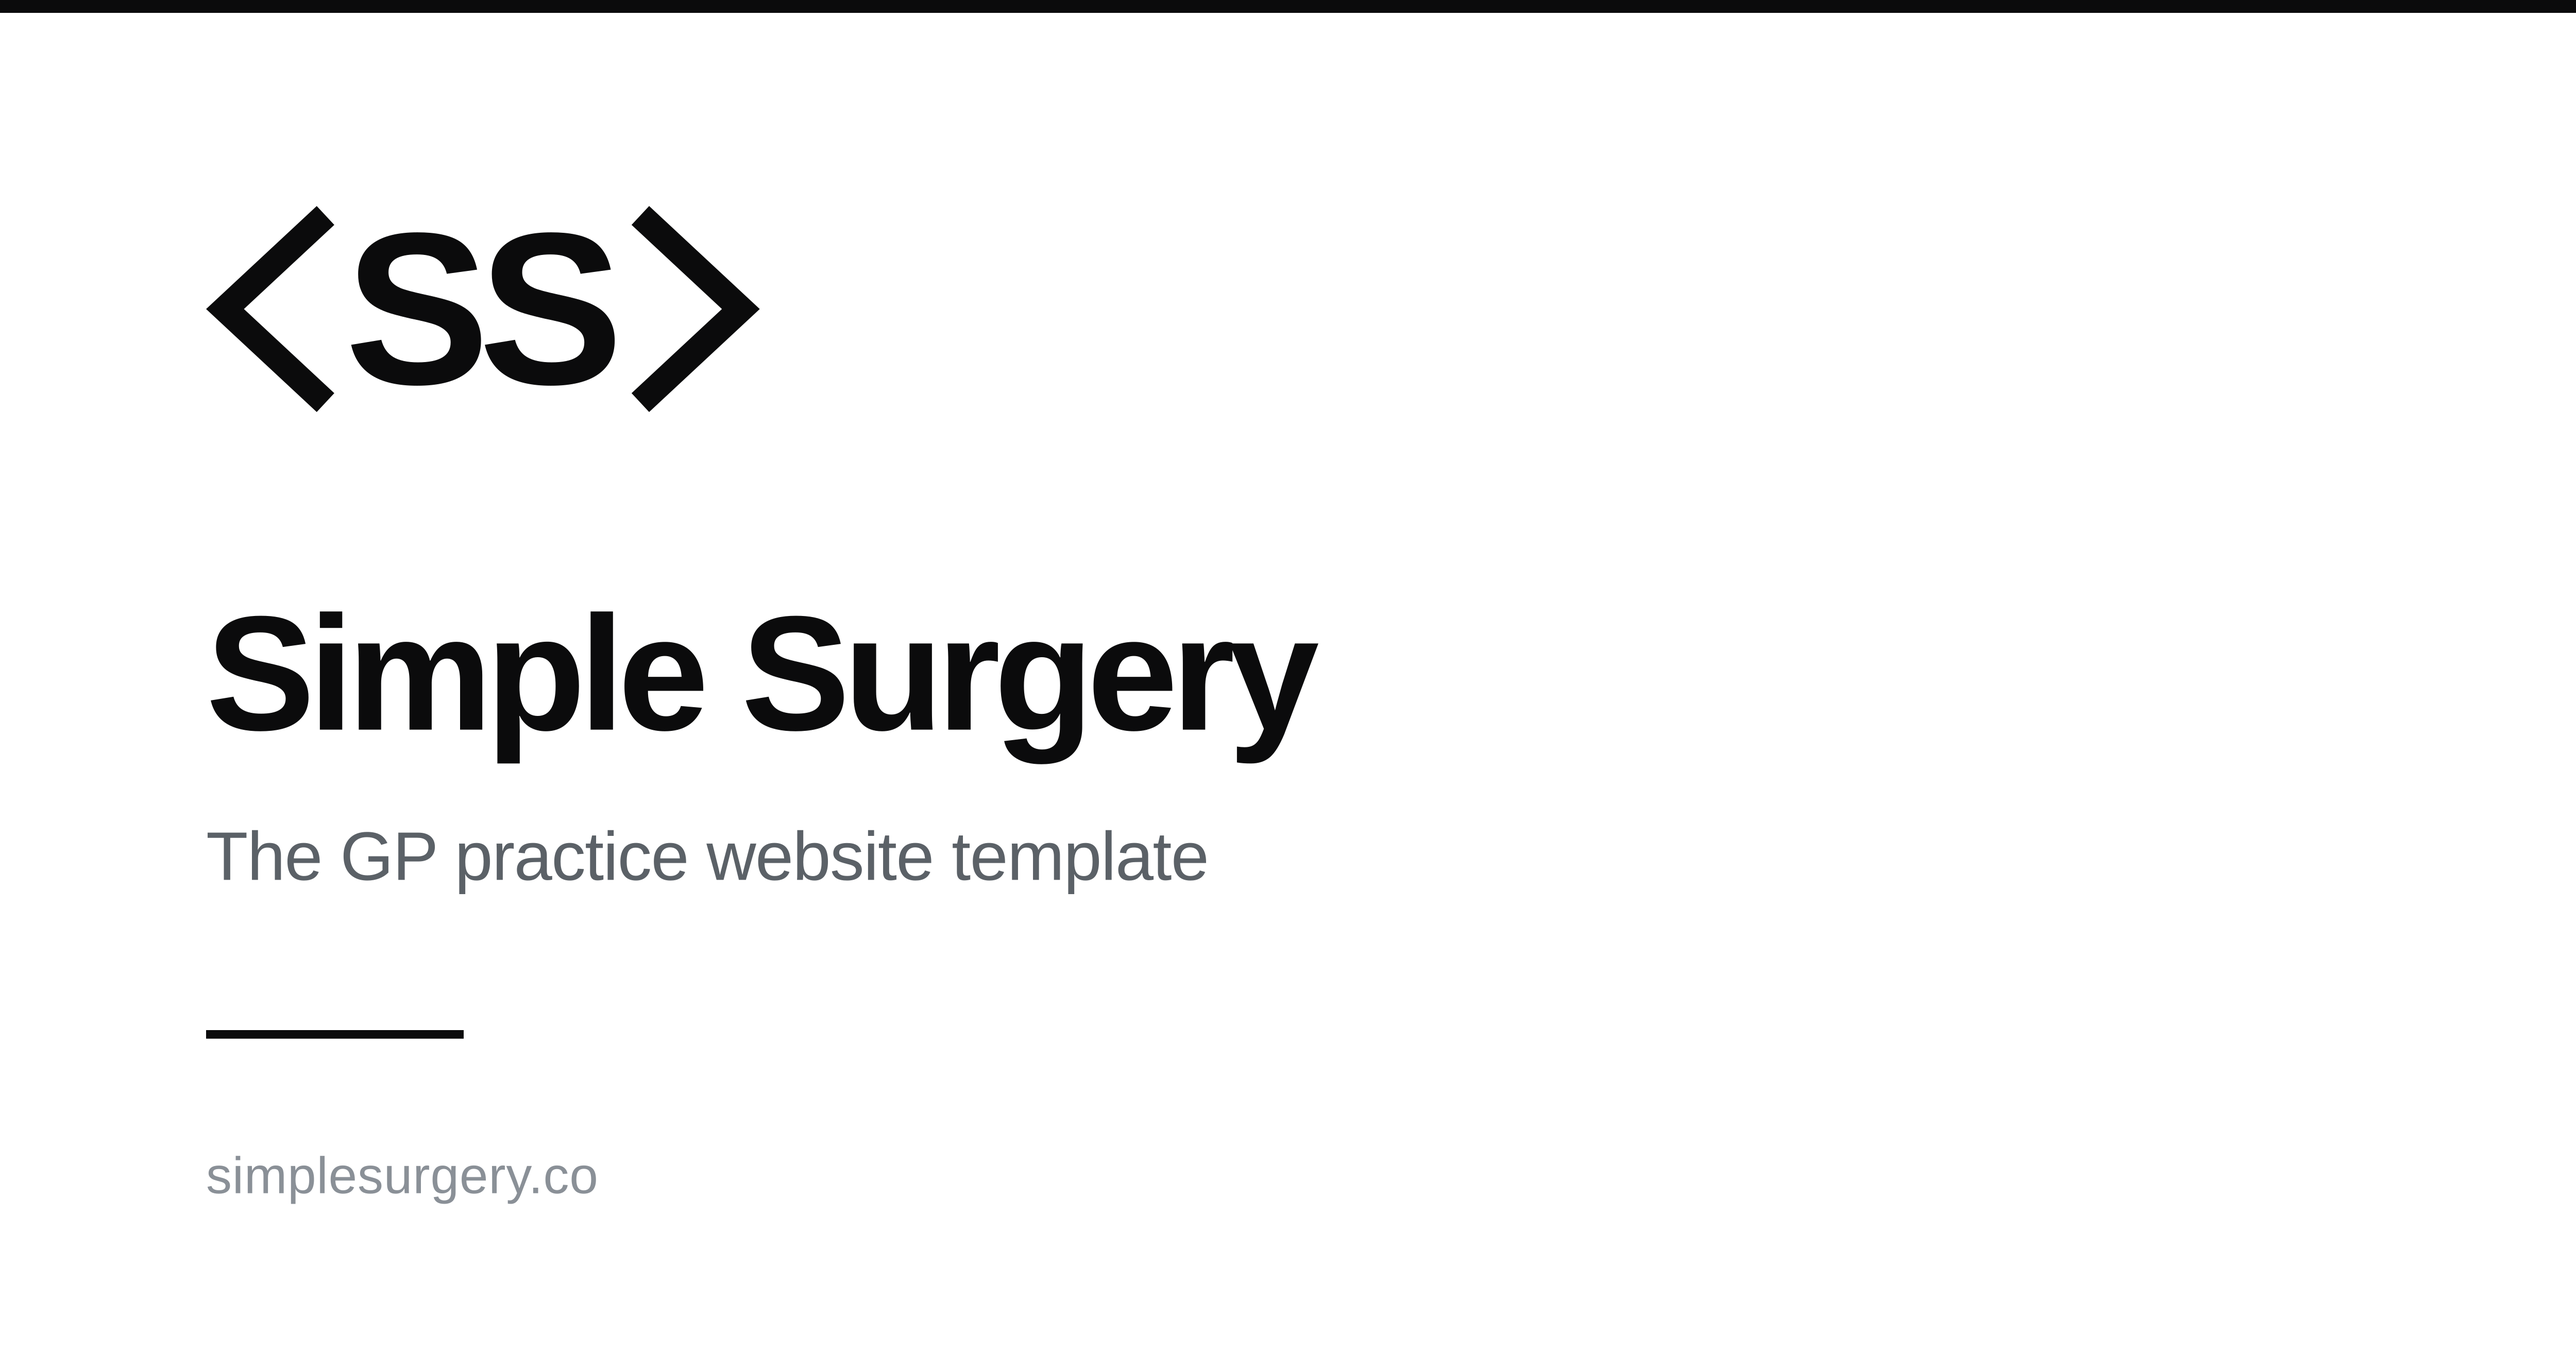
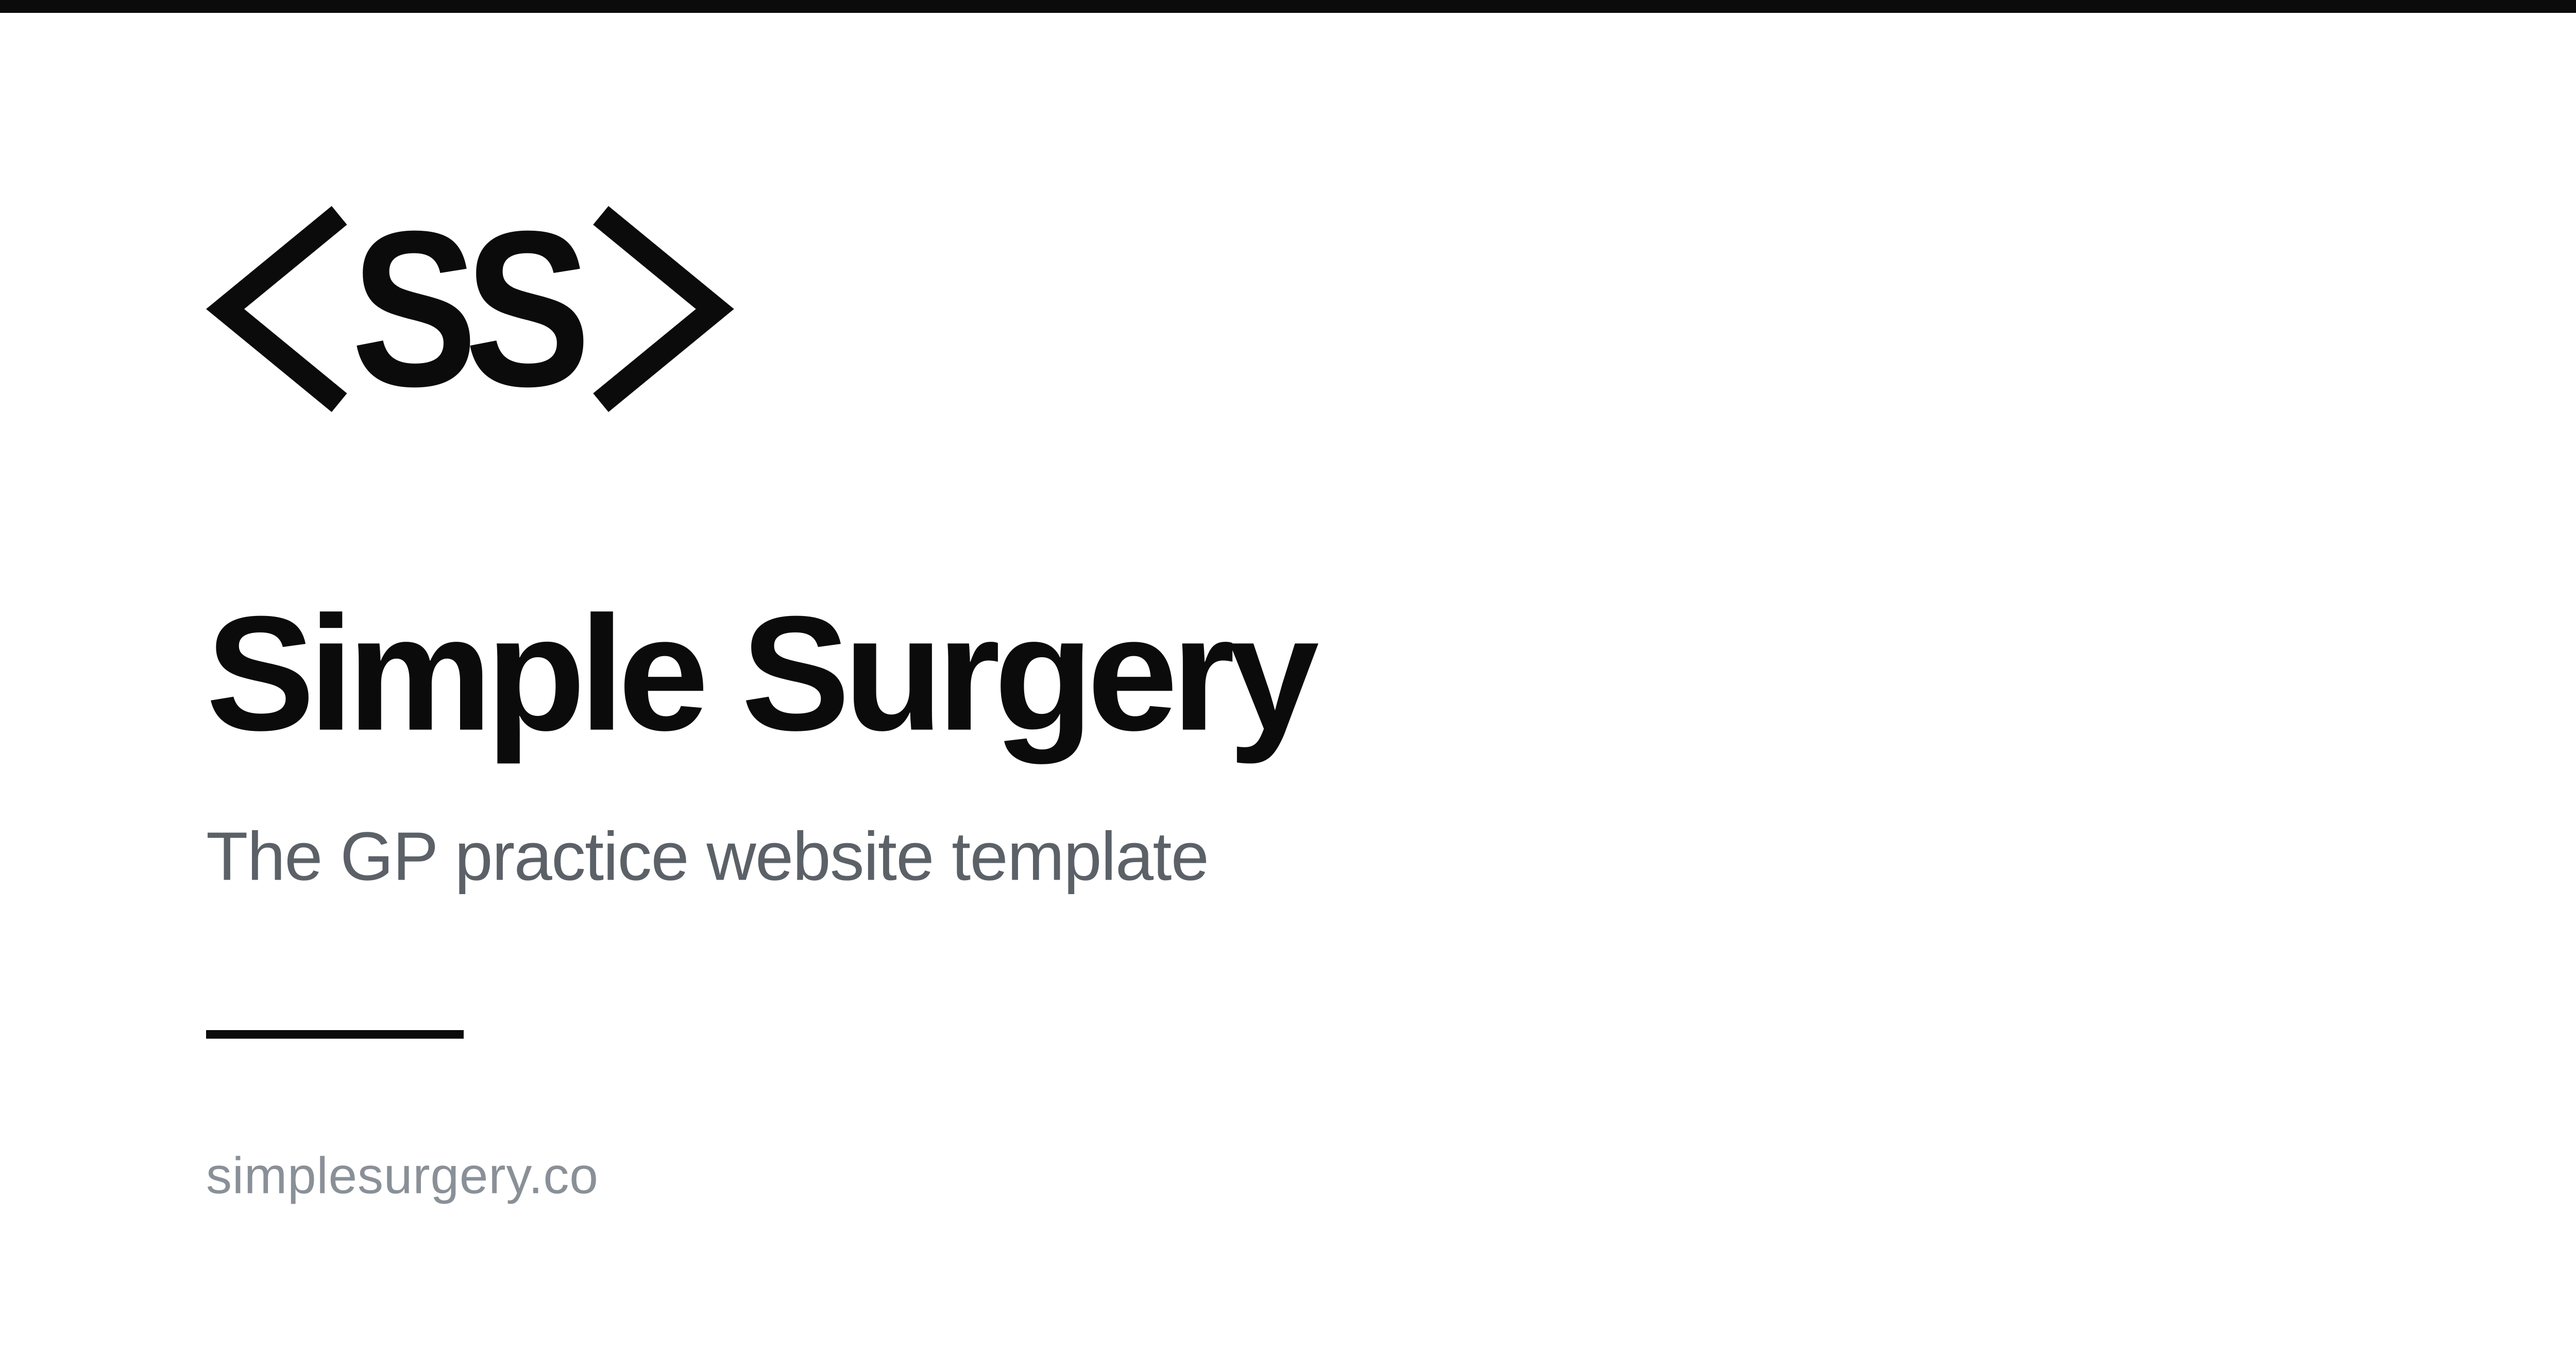
Rebuild the mark from measurements of the supplied artwork
The first pass drew the mark by eye from the artwork rather than from the files
themselves, and ran wide. This measures the originals and rebuilds the geometry
from those numbers.

Against a cap height of 1000, the artwork gives: bracket arms 727.5 across by
597 down, stroke 154, 62 of clear space between a bracket's open end and the
letters, and no gap at all between the two S's, which touch. The pill's padding
is wider than it is tall, 0.596 against 0.435 of the mark's height, because the
stadium's round ends eat into the horizontal space.

Overlaid on the original at the same cap height, the brackets now land within a
hairline and the mark within 0.3% on width, against 7.7% before.

The letterform is the one place this stays a reproduction. The original's S is
0.722 of the cap height wide and no grotesque to hand is drawn that narrow, so
the letters are Liberation Sans Bold condensed to 85.3%. That is recorded as a
single constant: given the original vector or the name of the typeface, replace
S_PATH, set S_SQUEEZE to 1, and the whole pack inherits it.

Falling out of the narrower letters, the small icons improved: the letters now
stand taller in their tile, so the 16 and 24px favicons are less mush.

Both apps' inline copies carry the new geometry. Marks, icons, favicons, pill,
lockups and social cards all regenerated.

Claude-Session: https://claude.ai/code/session_01AVDiaqRPUZ3bxakfz3LH5n

Changed region(s): [[0.156, 0.1562, 0.312, 0.3124], [0.0936, 0.2499, 0.156, 0.3124], [0.0936, 0.1562, 0.156, 0.2187]]

diff --git a/src/components/SimpleSurgeryMark.tsx b/src/components/SimpleSurgeryMark.tsx
@@ -10,16 +10,20 @@
  * break if a practice clears out their public folder.
  */
 
-/** A capital S: Liberation Sans Bold, normalised to a cap height of 1000. */
+/**
+ * A capital S: Liberation Sans Bold, normalised to a cap height of 1000 and
+ * condensed to 85.3%, which is the width the letters are drawn at in the
+ * original artwork.
+ */
 const S =
   'M846.2 706.2Q846.2 849 740.3 924.5Q634.5 1000 429.7 1000Q242.8 1000 136.6 933.8Q30.3 867.6 0 733.1L196.6 700.7Q216.6 777.9 274.5 812.8Q332.4 847.6 435.2 847.6Q648.3 847.6 648.3 717.9Q648.3 676.6 623.8 649.7Q599.3 622.8 554.8 604.8Q510.3 586.9 384.1 561.4Q275.2 535.9 232.4 520.3Q189.7 504.8 155.2 483.8Q120.7 462.8 96.6 433.1Q72.4 403.4 59 363.4Q45.5 323.4 45.5 271.7Q45.5 140 144.5 70Q243.4 0 432.4 0Q613.1 0 703.8 56.6Q794.5 113.1 820.7 243.4L623.4 270.3Q608.3 207.6 561.7 175.9Q515.2 144.1 428.3 144.1Q243.4 144.1 243.4 260Q243.4 297.9 263.1 322.1Q282.8 346.2 321.4 363.1Q360 380 477.9 405.5Q617.9 435.2 678.3 460.3Q738.6 485.5 773.8 519Q809 552.4 827.6 599Q846.2 645.5 846.2 706.2Z'
 
 export function SimpleSurgeryMark({ size = 15 }: { size?: number }) {
   return (
     <svg
-      width={Math.round((size * 3608.4) / 1342.9)}
+      width={Math.round((size * 3363.8) / 1313)}
       height={size}
-      viewBox="0 0 3608.4 1342.9"
+      viewBox="0 0 3363.8 1313"
       aria-hidden="true"
       focusable="false"
       className="inline-block shrink-0 align-[-0.15em]"
@@ -32,16 +36,16 @@ export function SimpleSurgeryMark({ size = 15 }: { size?: number }) {
       <g
         fill="none"
         stroke="currentColor"
-        strokeWidth="168"
+        strokeWidth="154"
         strokeLinecap="butt"
         strokeLinejoin="miter"
       >
-        <path d="M778.3 61.5L123.3 671.5L778.3 1281.5" />
-        <path d="M2830.1 61.5L3485.1 671.5L2830.1 1281.5" />
+        <path d="M848.9 59.5L121.4 656.5L848.9 1253.5" />
+        <path d="M2514.9 59.5L3242.4 656.5L2514.9 1253.5" />
       </g>
       <g fill="currentColor">
-        <path d={S} transform="translate(945.5 171.5)" />
-        <path d={S} transform="translate(1816.7 171.5)" />
+        <path d={S} transform="translate(959.7 156.5) scale(0.85343 1)" />
+        <path d={S} transform="translate(1681.9 156.5) scale(0.85343 1)" />
       </g>
     </svg>
   )
